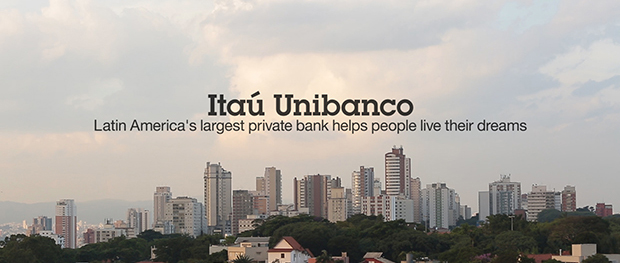
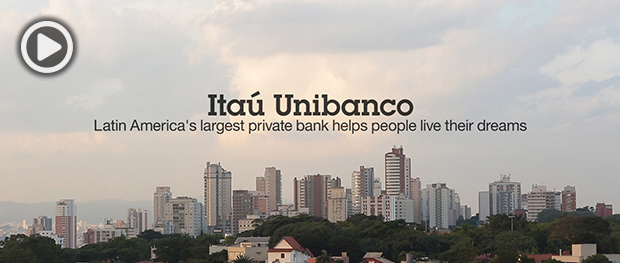
Changes to video treatment.

Changed region(s): [[0.0, 0.0608, 0.1532, 0.3042]]

diff --git a/sites/mainframe50/enginesofprogress/visa/index.html b/sites/mainframe50/enginesofprogress/visa/index.html
@@ -111,6 +111,8 @@
 
 <p>For the last 20 years, Visa has counted on the mainframe to deliver 100 percent availability — enabling commerce for billions of consumers. world's largest electronic payment network, connecting merchants and customers to move nearly 7 trillion dollars in payment volume. But for Visa, it's about more than simple payment — it's about creating innovative electronic payment systems like mobile point-of-sale technology that enables everyone, everywhere, to access modern commerce and achieve what they'd only dreamed.</p>
 
+<p>Watch the full story.</p>
+
 <a href="//www.youtube.com/watch?v=J-3ZmtSQiQ8" class="ibm-media"><img src="../../i/story-visa-video.jpg" style="max-width: 100% !important; height: 100% !important;" alt='First National Bank' width="620" height="350" /></a> 
 
 <!--p>Curabitur pretium tincidunt lacus. Nulla gravida orci a odio. Nullam varius, turpis et commodo pharetra, est eros bibendum elit, nec luctus magna felis sollicitudin mauris. Integer in mauris eu nibh euismod gravida. Duis ac tellus et risus vulputate vehicula. Donec lobortis risus a elit. Etiam tempor. Ut ullamcorper, ligula eu tempor congue, eros est euismod turpis, id tincidunt sapien risus a quam. Maecenas fermentum consequat mi. Donec fermentum. Pellentesque malesuada nulla a mi.</p-->

diff --git a/sites/mainframe50/enginesofprogress/business-connexion/index.html b/sites/mainframe50/enginesofprogress/business-connexion/index.html
@@ -111,6 +111,8 @@
 
 <p>The mainframe enables Business Connexion to build and deploy an end-to-end cloud offering that will enable them to provide seamless and continuous service to customers across Africa. By giving access to services like Internet, banking and telemedicine, Business Connexion can affect positive future outcomes of its communities and empower prosperity across the disconnected continent.</p>
 
+<p>Watch the full story.</p>
+
 <a href="//www.youtube.com/watch?v=bqN1_6gviGg" class="ibm-media"><img src="../../i/story-business-connexion-video.jpg" style="max-width: 100% !important; height: 100% !important;" alt="Business Connexion" width="620" height="350" /></a> 
 
 <!--p>Curabitur pretium tincidunt lacus. Nulla gravida orci a odio. Nullam varius, turpis et commodo pharetra, est eros bibendum elit, nec luctus magna felis sollicitudin mauris. Integer in mauris eu nibh euismod gravida. Duis ac tellus et risus vulputate vehicula. Donec lobortis risus a elit. Etiam tempor. Ut ullamcorper, ligula eu tempor congue, eros est euismod turpis, id tincidunt sapien risus a quam. Maecenas fermentum consequat mi. Donec fermentum. Pellentesque malesuada nulla a mi.</p-->

diff --git a/sites/mainframe50/enginesofprogress/itau-unibanco/index.html b/sites/mainframe50/enginesofprogress/itau-unibanco/index.html
@@ -111,6 +111,8 @@
 
 <p>Itaú Unibanco is the largest bank in Latin America, processing around 100 million transactions each day. It relies on the IBM Mainframe for the reliability, availability and security to support its customers growing and changing needs — and when mobile and online banking overtook traditional channels this year for the first time, the bank saw an opportunity to evolve to provide banking services when and where its customers needed them. With the mainframe at its heart, Itaú’s new data center will support a massive 24,000 transactions every second — giving its customers anytime, anywhere access to the banking services they need to make their dreams a reality.</p>
 
+<p>Watch the full story.</p>
+
 <a href="//www.youtube.com/watch?v=J-3ZmtSQiQ8" class="ibm-media"><img src="../../i/story-itau-video.jpg" style="max-width: 100% !important; height: 100% !important;" alt='First National Bank' width="620" height="350" /></a> 
 
 <!--img style="max-width: 100% !important; height: 100% !important;" src="../../i/story-itau-unibanco-infographic.jpg" width="620" height="350" /-->

diff --git a/sites/mainframe50/enginesofprogress/walmart/index.html b/sites/mainframe50/enginesofprogress/walmart/index.html
@@ -111,6 +111,8 @@
 
 <p>From a Five and Dime in Bentonville, Arkansas to a retail superforce serving customers in 27 countries around the world, Walmart has built an empire on one simple value: the customer always comes first. And today it relies on innovative technology to give customers anytime, anywhere access to the things they need the most.</p>
 
+<p>Watch the full story.</p>
+
 <a href="//www.youtube.com/watch?v=pcdwCUt-Vxk" class="ibm-media"><img src="../../i/story-walmart-video.jpg" style="max-width: 100% !important; height: 100% !important;" alt="Walmart" width="620" height="350" /></a> 
 
 <!--p>Curabitur pretium tincidunt lacus. Nulla gravida orci a odio. Nullam varius, turpis et commodo pharetra, est eros bibendum elit, nec luctus magna felis sollicitudin mauris. Integer in mauris eu nibh euismod gravida. Duis ac tellus et risus vulputate vehicula. Donec lobortis risus a elit. Etiam tempor. Ut ullamcorper, ligula eu tempor congue, eros est euismod turpis, id tincidunt sapien risus a quam. Maecenas fermentum consequat mi. Donec fermentum. Pellentesque malesuada nulla a mi.</p-->

diff --git a/sites/mainframe50/enginesofprogress/citi/index.html b/sites/mainframe50/enginesofprogress/citi/index.html
@@ -113,6 +113,8 @@
 
 <p>In healthcare, for example, where patient obligations could exceed $700 billion in the next seven years, technology is empowering patients to participate in managing the cost of their healthcare, and enabling a more functional payment system overall — and that benefits everyone.</p>
 
+<p>Watch the full story.</p>
+
 <a href="//www.youtube.com/watch?v=J-3ZmtSQiQ8" class="ibm-media"><img src="../../i/story-citi-video.jpg" style="max-width: 100% !important; height: 100% !important;" alt="Citi" width="620" height="350" /></a> 
 
 <!--img style="max-width: 100% !important; height: 100% !important;" src="../../i/story-citi-infographic.jpg" width="620" height="350" /-->

diff --git a/sites/mainframe50/enginesofprogress/the-met-office/index.html b/sites/mainframe50/enginesofprogress/the-met-office/index.html
@@ -113,6 +113,8 @@
 
 <p>The Met Office collects 10 million weather observations every day from around the world — it depends on the mainframe to process and output forecast reports quickly and without error.</p>
 
+<p>Watch the full story.</p>
+
 <a href="//www.youtube.com/watch?v=4A0gqWKrK0c" class="ibm-media"><img src="../../i/story-the-met-office-video.jpg" style="max-width: 100% !important; height: 100% !important;" alt="The Met Office" width="620" height="350" /></a> 
 
 <!--img style="max-width: 100% !important; height: 100% !important;" src="../../i/story-the-met-office-infographic.jpg" width="620" height="350" /-->

diff --git a/sites/mainframe50/enginesofprogress/first-national-bank/index.html b/sites/mainframe50/enginesofprogress/first-national-bank/index.html
@@ -113,6 +113,8 @@
 
 <p>FNB relies on the mainframe to evolve its infrastructure to support a new digital banking model, and reaching customers in new ways — all the time, everywhere.</p>
 
+<p>Watch the full story.</p>
+
 <a href="//www.youtube.com/watch?v=Vwfc9gB5b1U" class="ibm-media"><img src="../../i/story-first-national-bank-video.jpg" style="max-width: 100% !important; height: 100% !important;" alt="First National Bank" width="620" height="350" /></a>
 
 <!--img style="max-width: 100% !important; height: 100% !important;" src="../../i/story-first-national-bank-infographic.jpg" width="620" height="350" /-->
